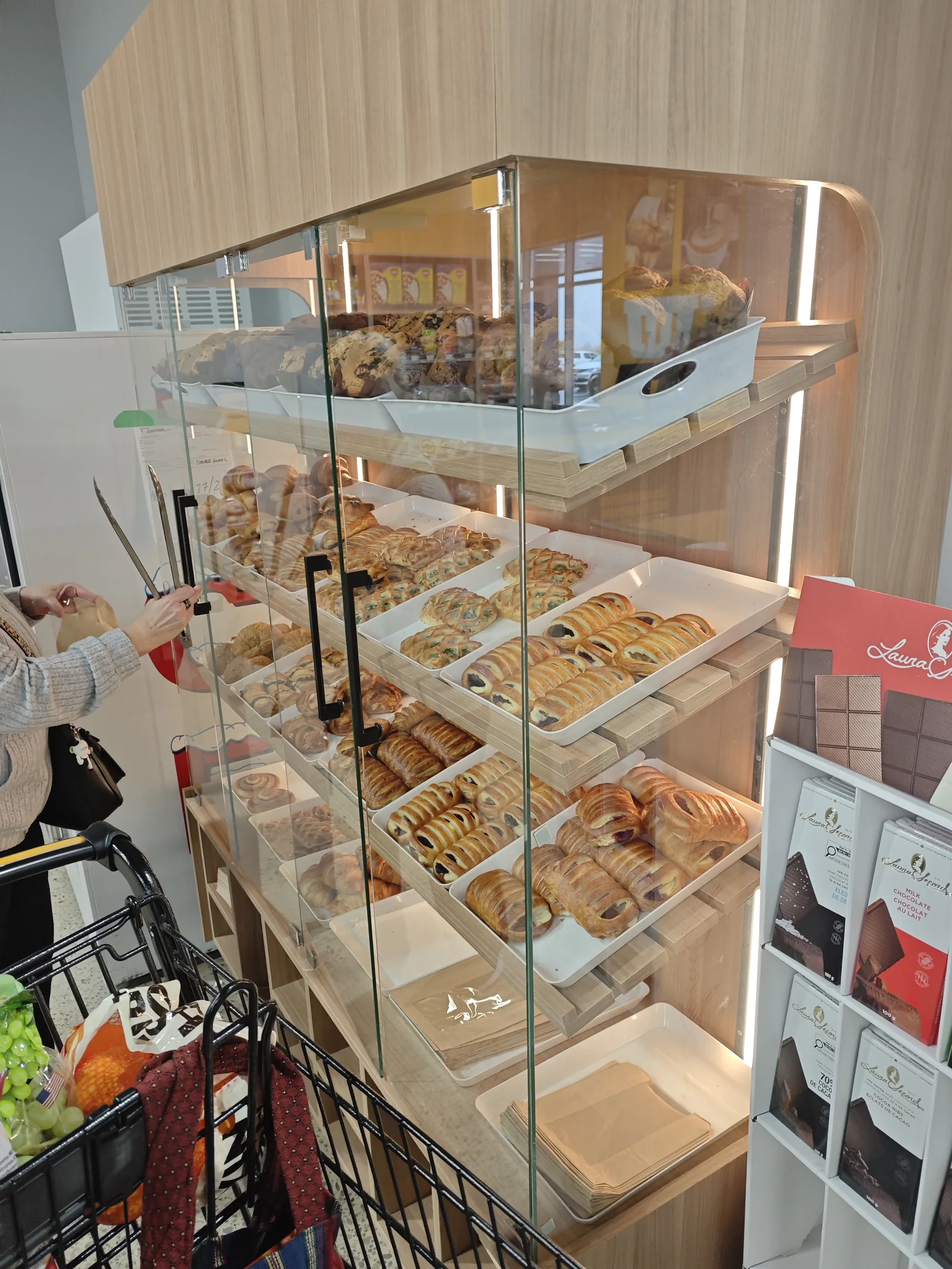
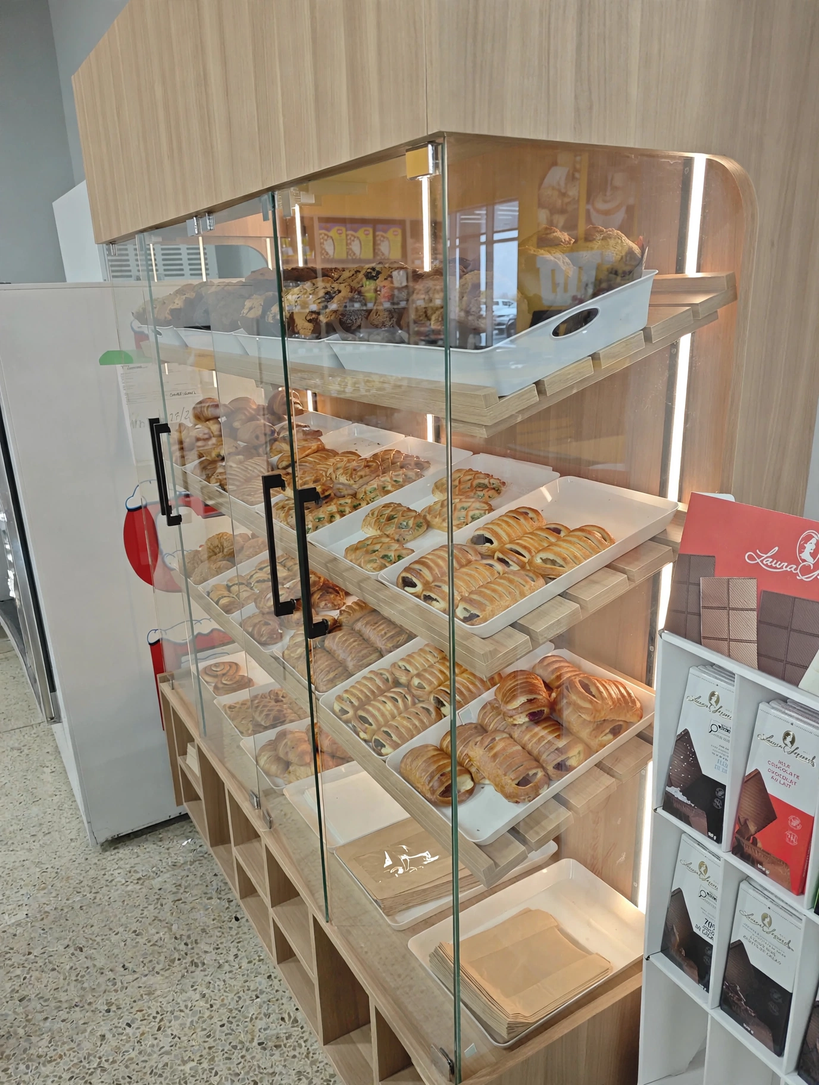
Fix gallery issues: remove duplicates, drop circled photos, AI-clean 2 shots
- Removed exact/near duplicate photos (kitchen-05/07/08, closet-11/12/13
  duplicated existing gallery shots)
- Removed 2 Food Basket photos with prominent people (commercial-08/09)
- AI-cleaned commercial-05 (removed person + cart) and commercial-06
  (removed cardboard boxes + staff from display case)

diff --git a/kitchens.html b/kitchens.html
@@ -102,10 +102,7 @@
       <figure class="work-item bracket"><img src="assets/gallery/kitchen-04.webp" alt="Custom white kitchen with pendant lighting by Newood Millwork" loading="lazy"></figure>
       <figure class="work-item bracket"><img src="assets/gallery/vanity-01.webp" alt="Custom wood-tone double bathroom vanity by Newood Millwork" loading="lazy"></figure>
       <figure class="work-item bracket"><img src="assets/gallery/vanity-02.webp" alt="Custom navy double bathroom vanity with brass hardware by Newood Millwork" loading="lazy"></figure>
-      <figure class="work-item bracket"><img src="assets/gallery/kitchen-05.webp" alt="Custom white kitchen with waterfall island and brass hardware by Newood Millwork" loading="lazy"></figure>
       <figure class="work-item bracket"><img src="assets/gallery/kitchen-06.webp" alt="Custom white kitchen with gold bar stools by Newood Millwork" loading="lazy"></figure>
-      <figure class="work-item bracket"><img src="assets/gallery/kitchen-07.webp" alt="Custom gray kitchen with marble backsplash by Newood Millwork" loading="lazy"></figure>
-      <figure class="work-item bracket"><img src="assets/gallery/kitchen-08.webp" alt="Custom white kitchen with pendant lighting by Newood Millwork" loading="lazy"></figure>
       <figure class="work-item bracket"><img src="assets/gallery/kitchen-09.webp" alt="Custom navy kitchen cabinetry by Newood Millwork" loading="lazy"></figure>
       <figure class="work-item bracket"><img src="assets/gallery/kitchen-10.webp" alt="Custom dark wood kitchen by Newood Millwork" loading="lazy"></figure>
     </div>

diff --git a/commercial.html b/commercial.html
@@ -143,8 +143,6 @@
       <figure class="work-item bracket"><img src="assets/gallery/commercial-05.webp" alt="LED-lit glass display case with pastries at Food Basket Barrie" loading="lazy"></figure>
       <figure class="work-item bracket"><img src="assets/gallery/commercial-06.webp" alt="Deli display case millwork at Food Basket Wholesale Market, Barrie" loading="lazy"></figure>
       <figure class="work-item bracket"><img src="assets/gallery/commercial-07.webp" alt="Checkout counter run at Food Basket Wholesale Market, Barrie" loading="lazy"></figure>
-      <figure class="work-item bracket"><img src="assets/gallery/commercial-08.webp" alt="Store-wide view with checkout counters at Food Basket Barrie" loading="lazy"></figure>
-      <figure class="work-item bracket"><img src="assets/gallery/commercial-09.webp" alt="Bakery department with custom millwork at Food Basket Barrie" loading="lazy"></figure>
       <figure class="work-item bracket"><img src="assets/gallery/commercial-10.webp" alt="Glass display case craftsmanship detail by Newood Millwork" loading="lazy"></figure>
       <figure class="work-item bracket"><img src="assets/gallery/commercial-01.webp" alt="Custom private office millwork with built-in cabinetry by Newood Millwork" loading="lazy"></figure>
       <figure class="work-item bracket"><img src="assets/gallery/commercial-02.webp" alt="Custom reception desk with fluted panel millwork by Newood Millwork" loading="lazy"></figure>

diff --git a/closets.html b/closets.html
@@ -106,9 +106,6 @@
       <figure class="work-item bracket"><img src="assets/gallery/closet-08.webp" alt="Custom walnut office wall unit with glass bookcases by Newood Millwork" loading="lazy"></figure>
       <figure class="work-item bracket"><img src="assets/gallery/closet-09.webp" alt="Custom walnut wall unit with built-in wine fridge by Newood Millwork" loading="lazy"></figure>
       <figure class="work-item bracket"><img src="assets/gallery/closet-10.webp" alt="Custom gray mudroom closet with bench by Newood Millwork" loading="lazy"></figure>
-      <figure class="work-item bracket"><img src="assets/gallery/closet-11.webp" alt="Custom white walk-in closet by Newood Millwork" loading="lazy"></figure>
-      <figure class="work-item bracket"><img src="assets/gallery/closet-12.webp" alt="Custom blue-gray wardrobe with lit display by Newood Millwork" loading="lazy"></figure>
-      <figure class="work-item bracket"><img src="assets/gallery/closet-13.webp" alt="Custom white wardrobe with display niche by Newood Millwork" loading="lazy"></figure>
     </div>
   </div>
 </section>
